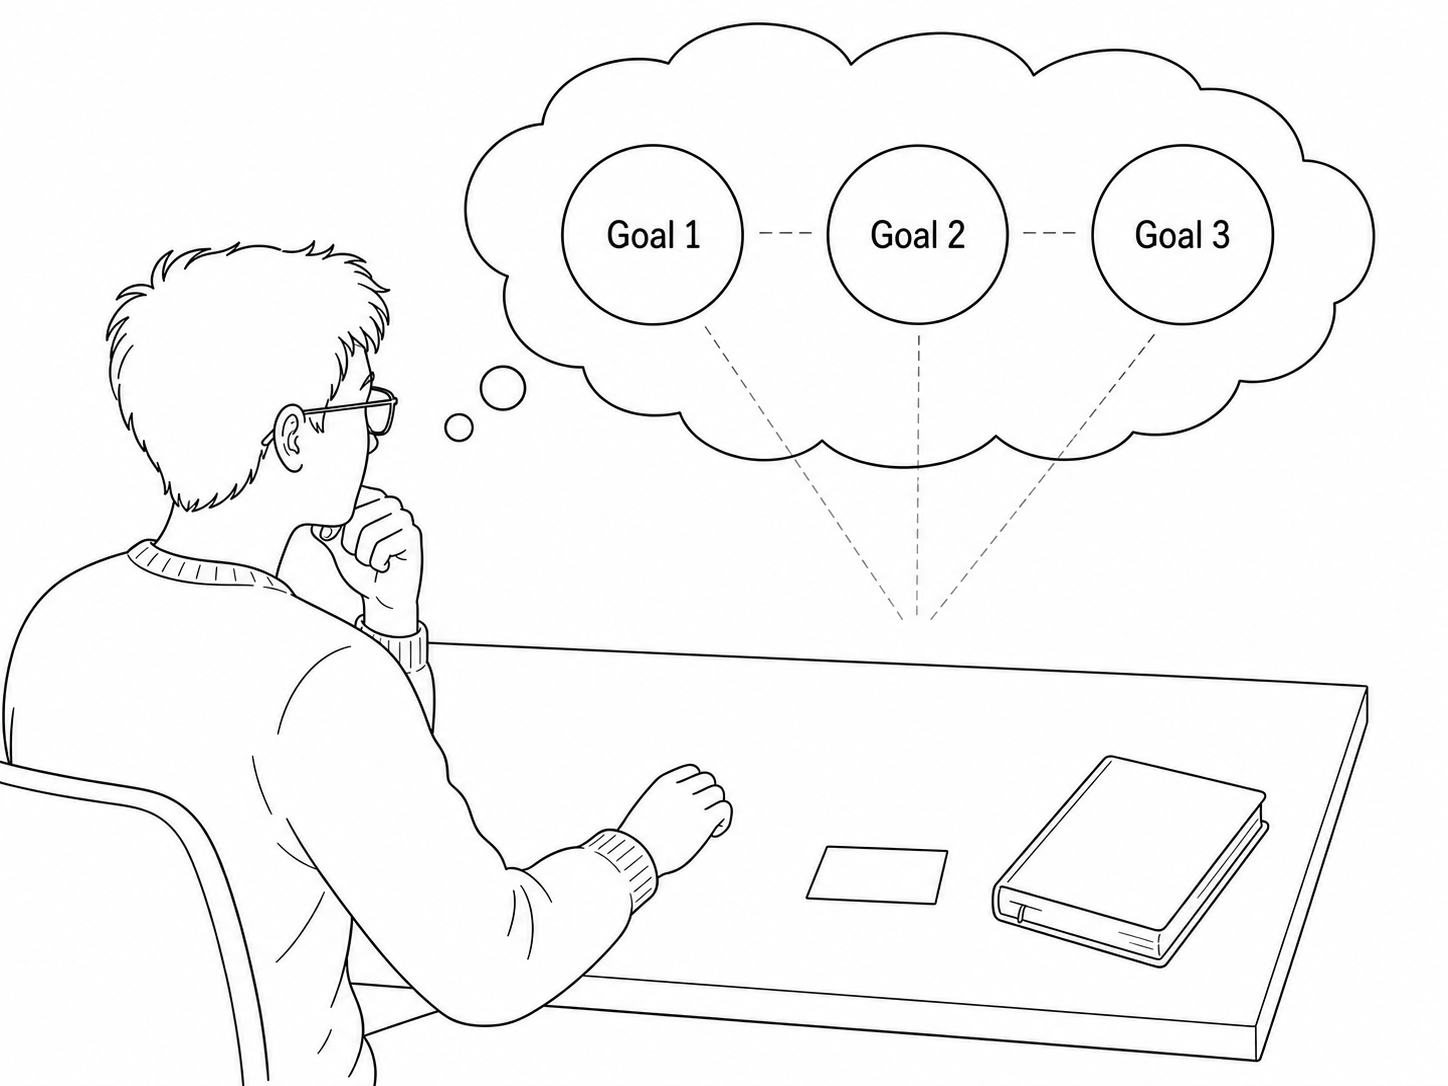
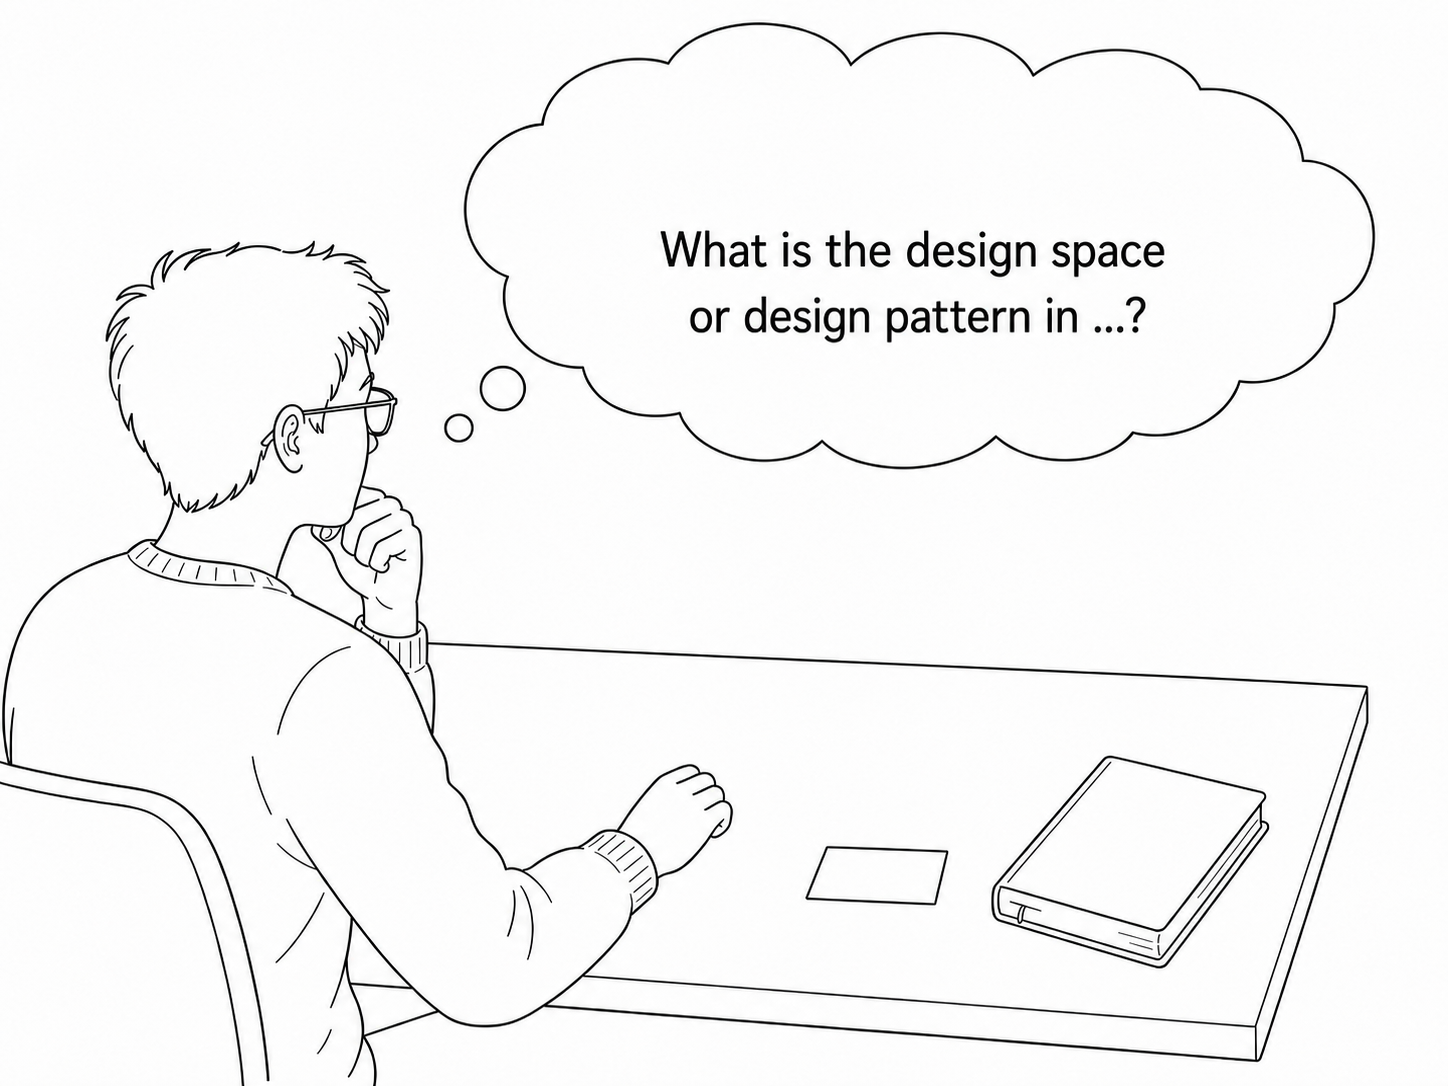
Refine design space framing illustration

diff --git a/method-005.html b/method-005.html
@@ -341,7 +341,7 @@
           <h4>Frame the goals.</h4>
           <p>Establish the high-level goals or questions the design space should answer. These give the coding a purpose and a backbone to organize against.</p>
           <figure class="step-fig">
-            <div class="step-img"><img src="method-005/step1.png" alt="A researcher frames three goals in a thinking cloud above a sparse desk, labeled Goal 1, Goal 2, and Goal 3" loading="lazy"></div>
+            <div class="step-img"><img src="method-005/step1.png" alt="A researcher considers the question, What is the design space or design pattern in this area?" loading="lazy"></div>
           </figure>
         </div>
       </div>